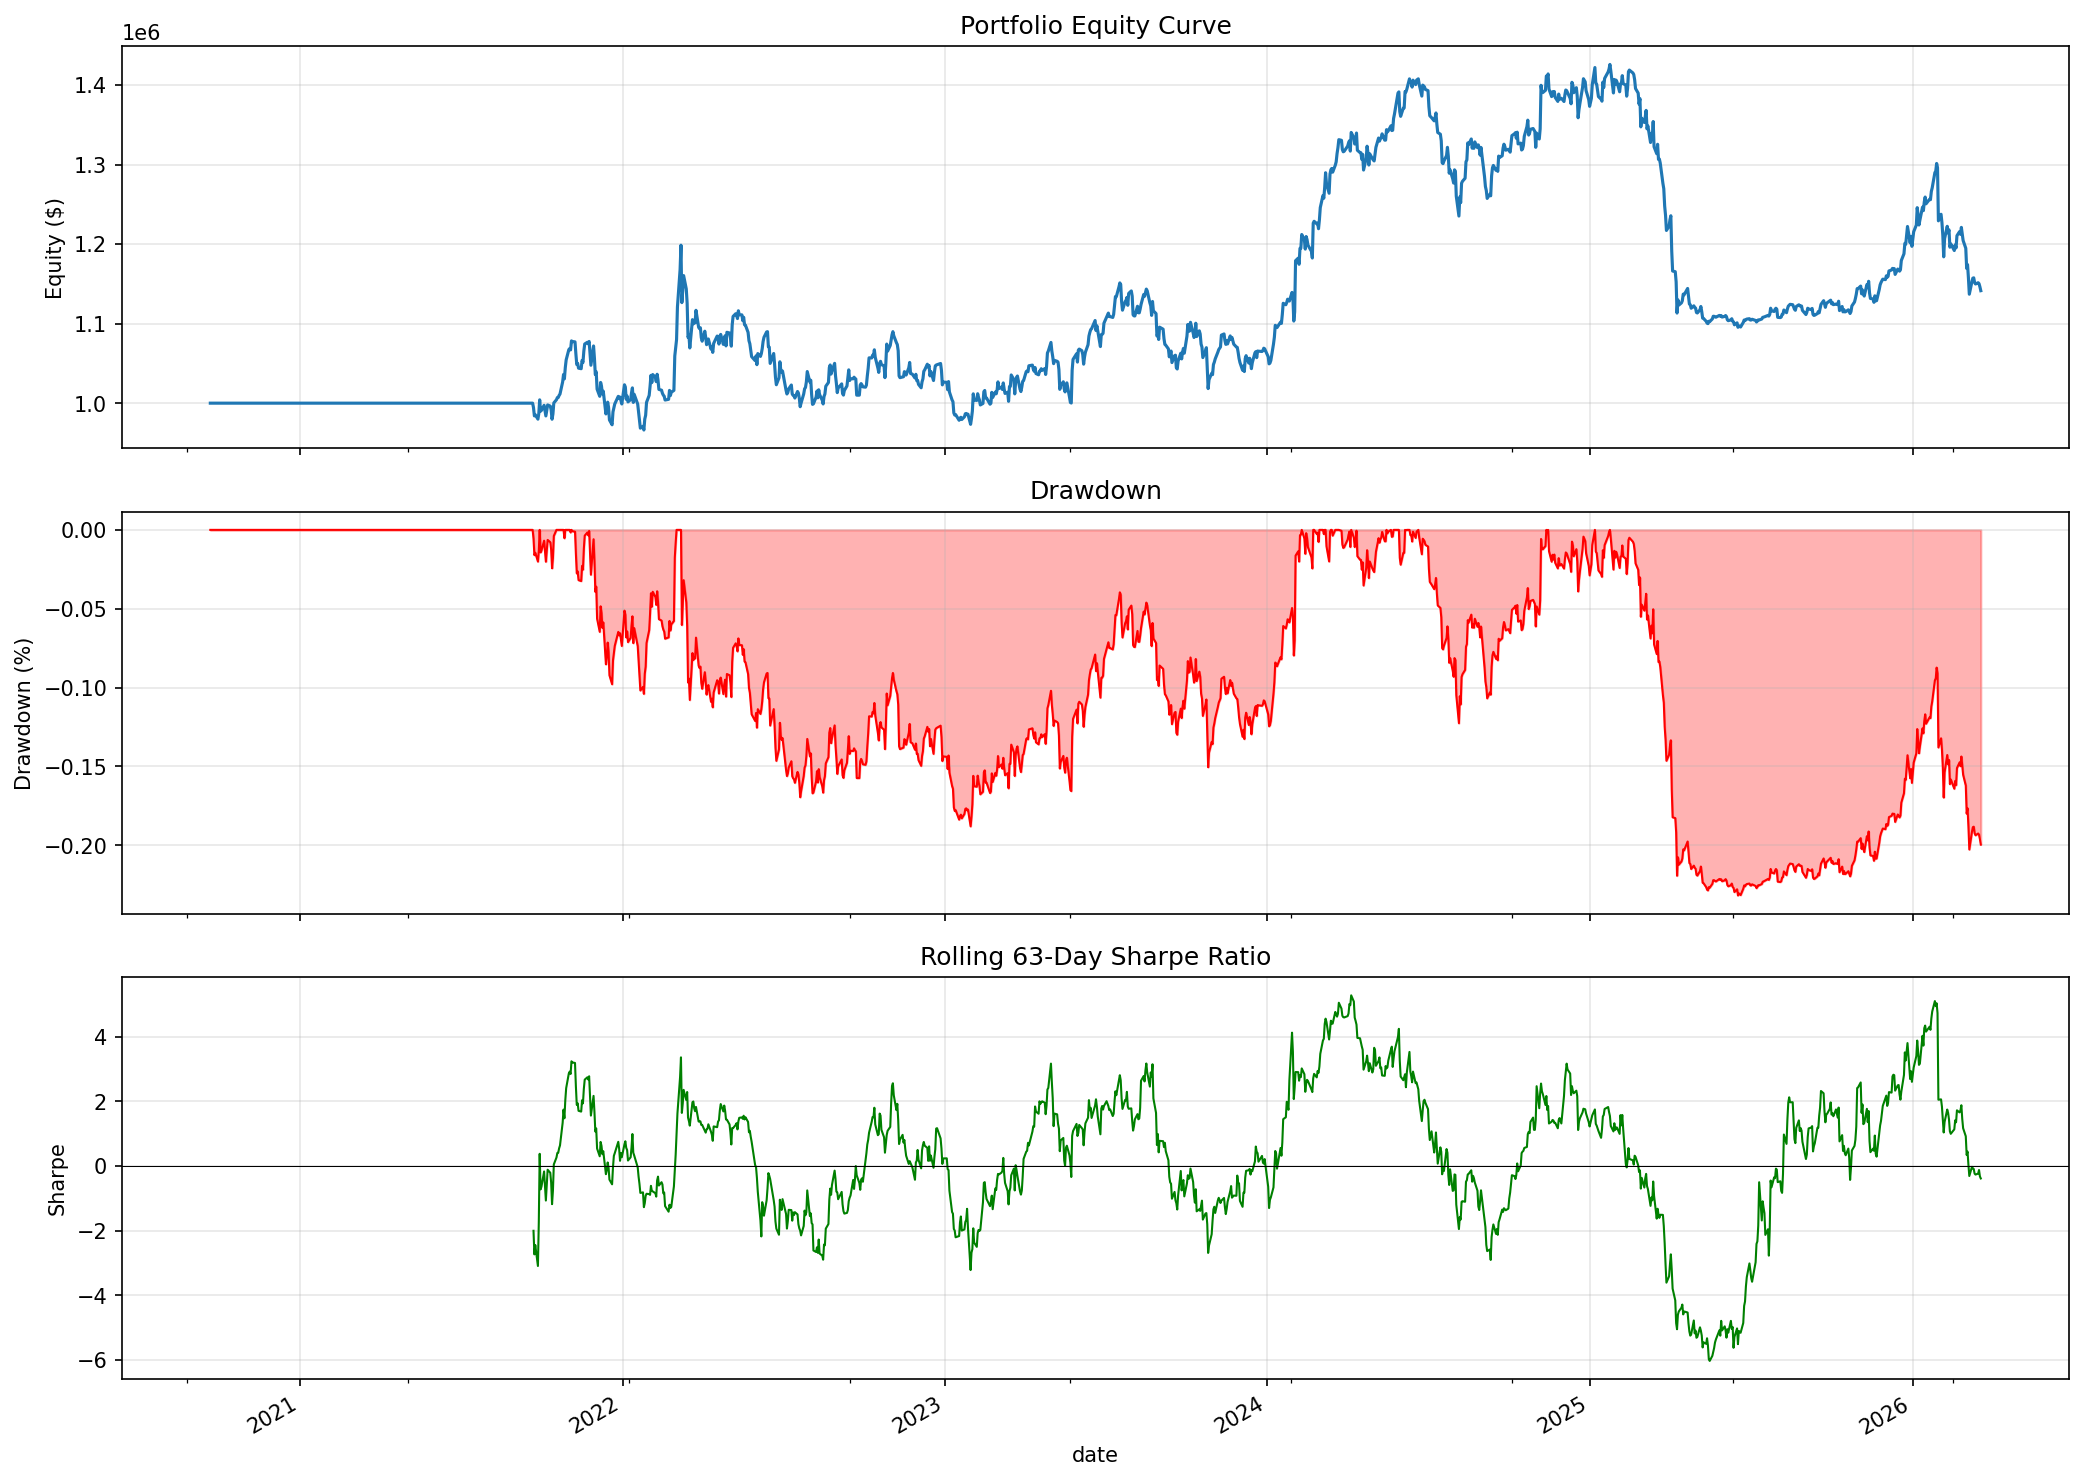
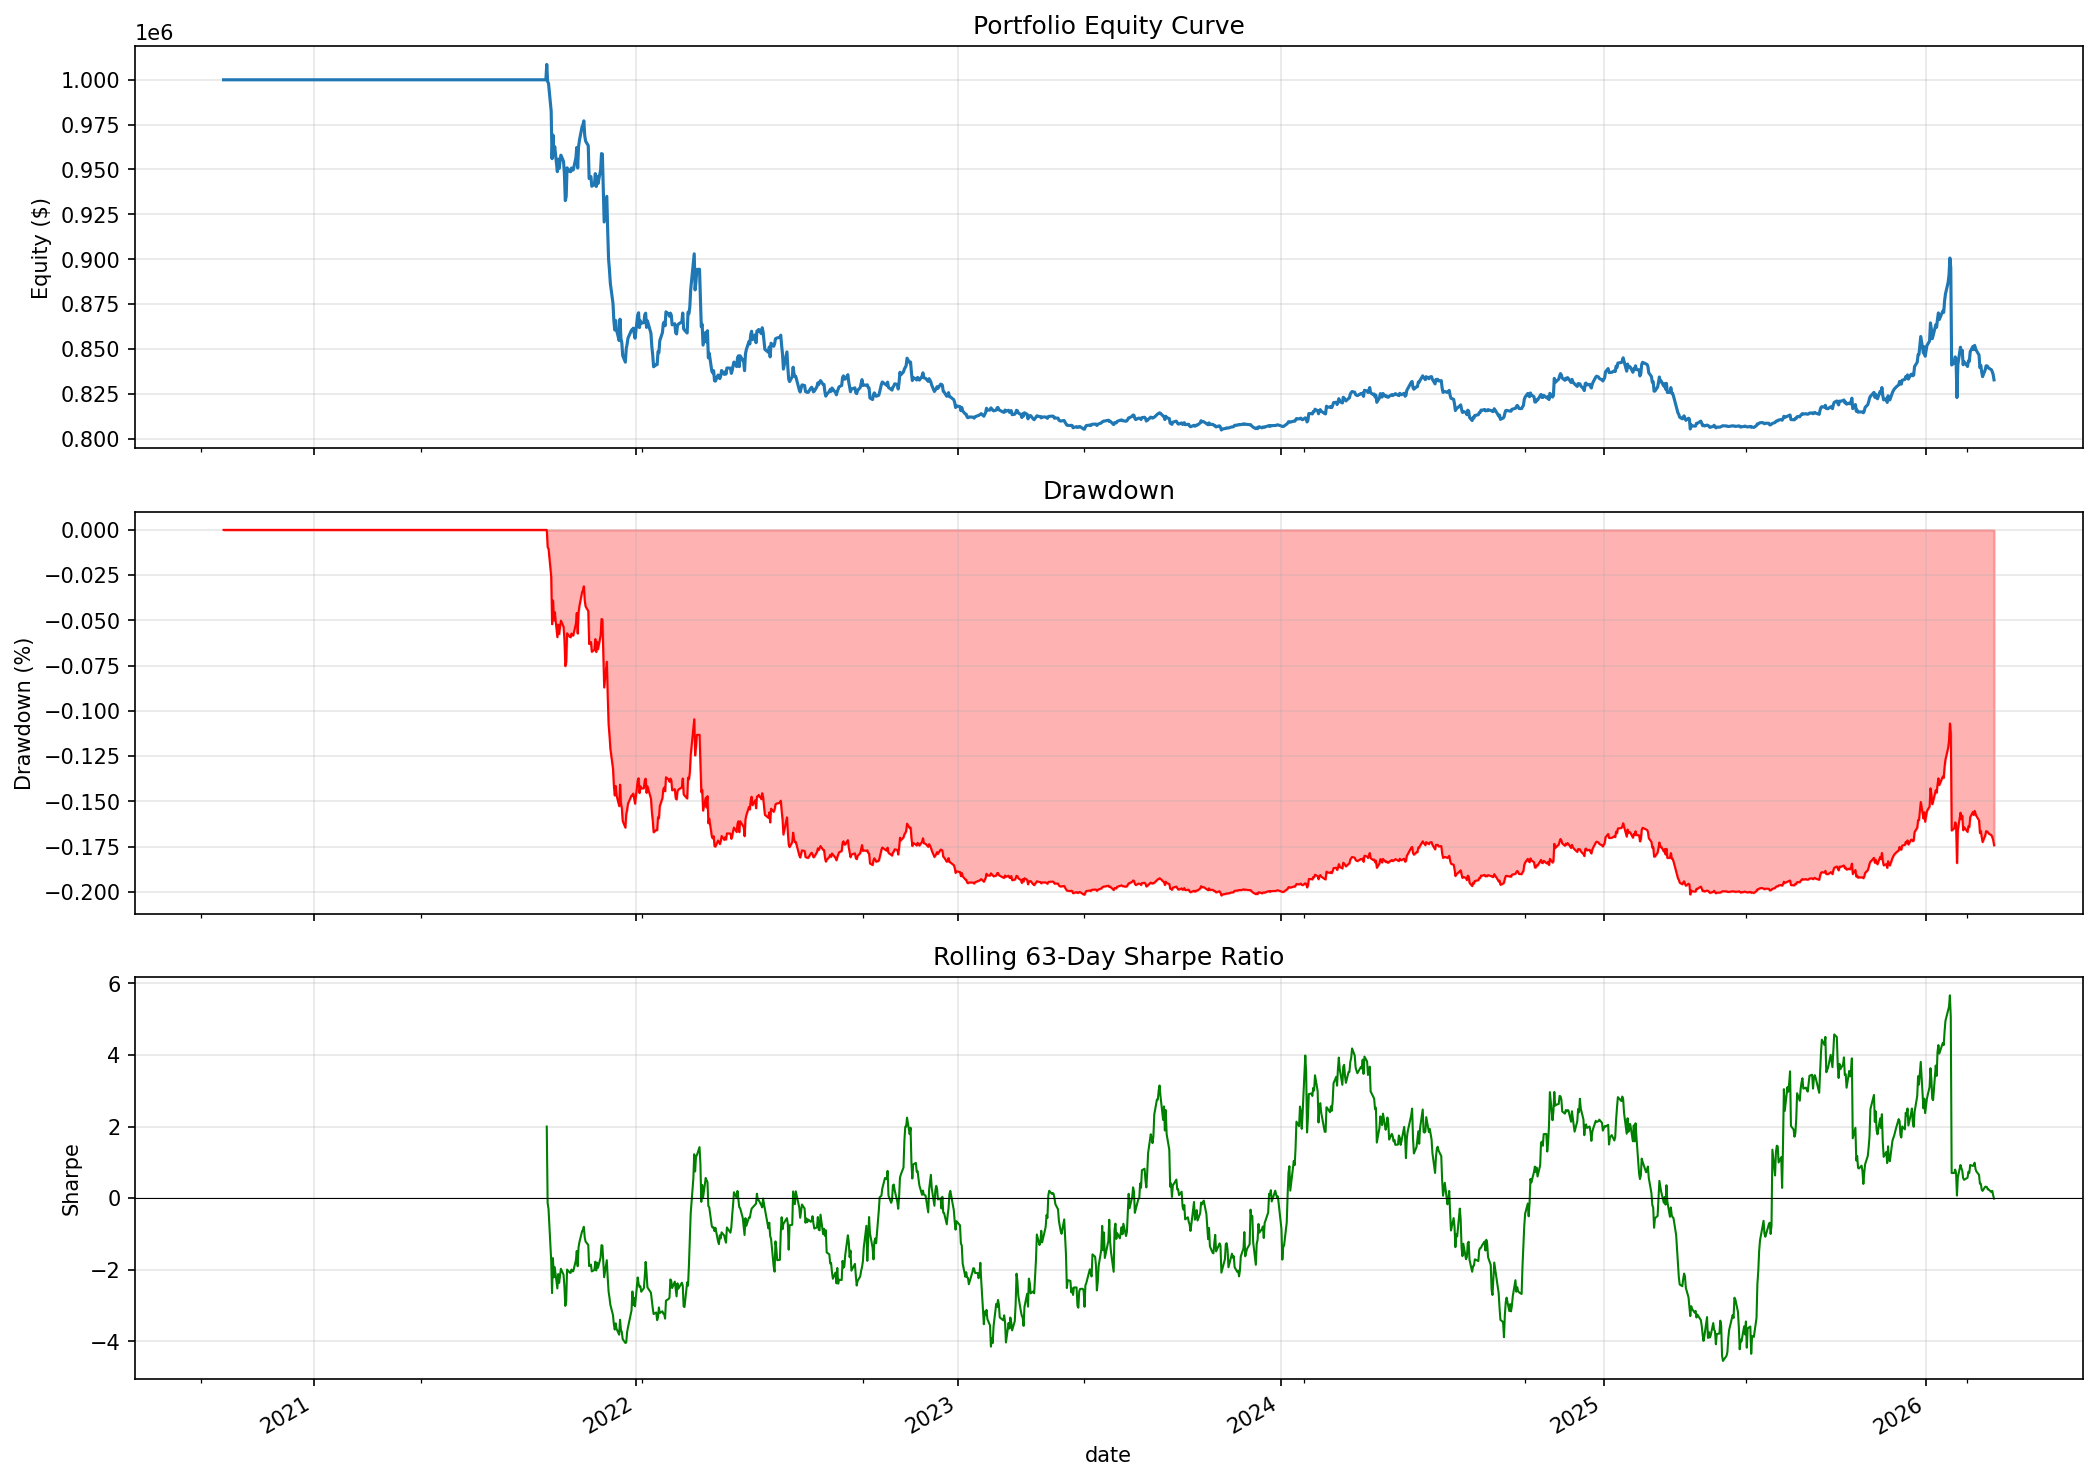
experiment: iteration 2 - lower risk aversion (1.0) + higher vol target (20%)

diff --git a/config.py b/config.py
@@ -82,7 +82,7 @@ class PortfolioConfig:
     max_gross_leverage: float = 1.5
     max_net_leverage: float = 0.6  # Allow more directional exposure
     turnover_penalty: float = 0.005  # 50bps turnover cost
-    risk_aversion: float = 2.0  # Lambda for mean-variance optimization
+    risk_aversion: float = 1.0  # Lambda for mean-variance optimization (lower = more alpha-seeking)
     # Rebalance frequency (trading days)
     rebalance_frequency: int = 10
 
@@ -97,7 +97,7 @@ class RiskConfig:
     max_var: float = 0.035  # 3.5% daily VaR limit
 
     # Volatility targeting
-    vol_target: float = 0.15  # 15% annualized
+    vol_target: float = 0.20  # 20% annualized — more risk budget
 
     # Position / exposure limits
     max_position_size: float = 0.20  # 15% max single name
